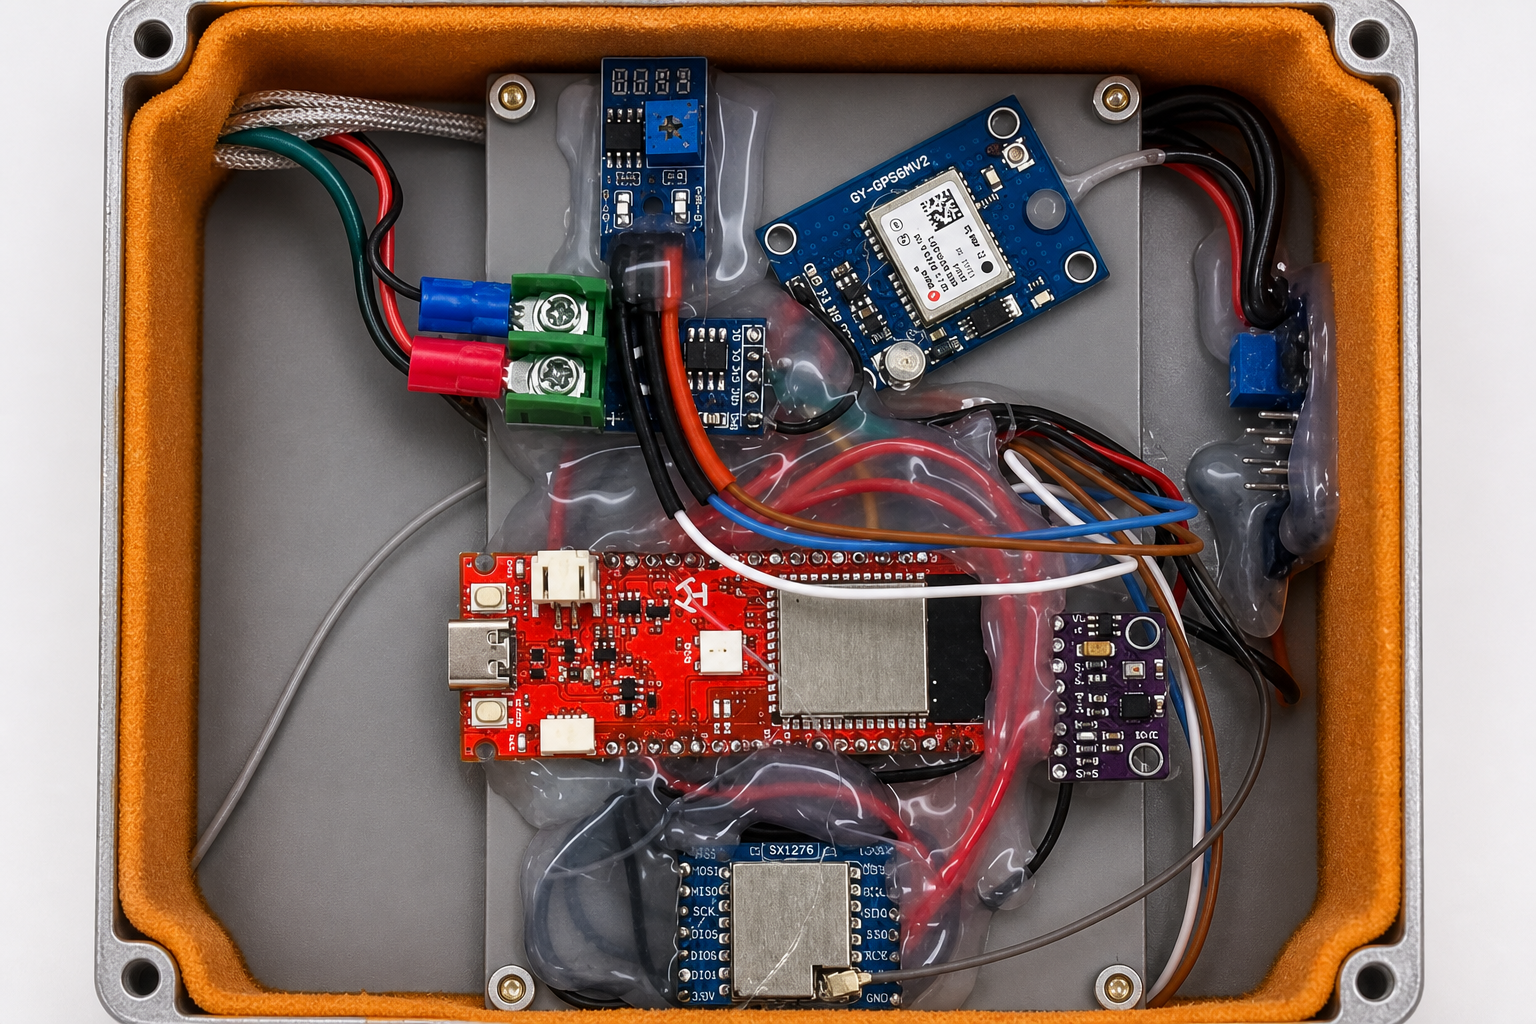
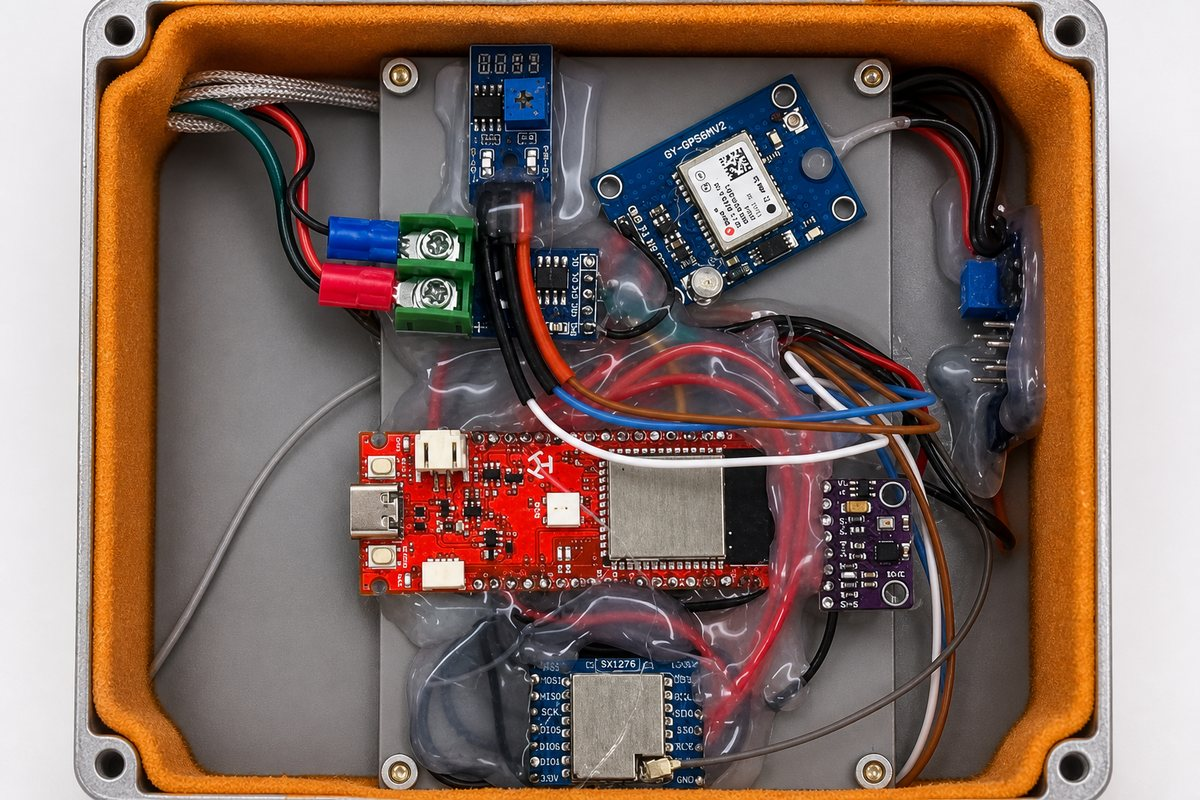
fix: compress the home open-box photo for the web
The reframed shot was 2.9MB; 1200px JPEG keeps the crop without stalling the fold.

diff --git a/src/Home.jsx b/src/Home.jsx
@@ -177,8 +177,8 @@ function Hero() {
         <article className="fold-card is-shot">
           <Photo
             src="/fold/guts.jpg"
-            w={1536}
-            h={1024}
+            w={1200}
+            h={800}
             alt="Açık orman kutusu. Kartlar turuncu conta yuvasının içinde."
           />
           <h2>Güneş panelli gövde</h2>
